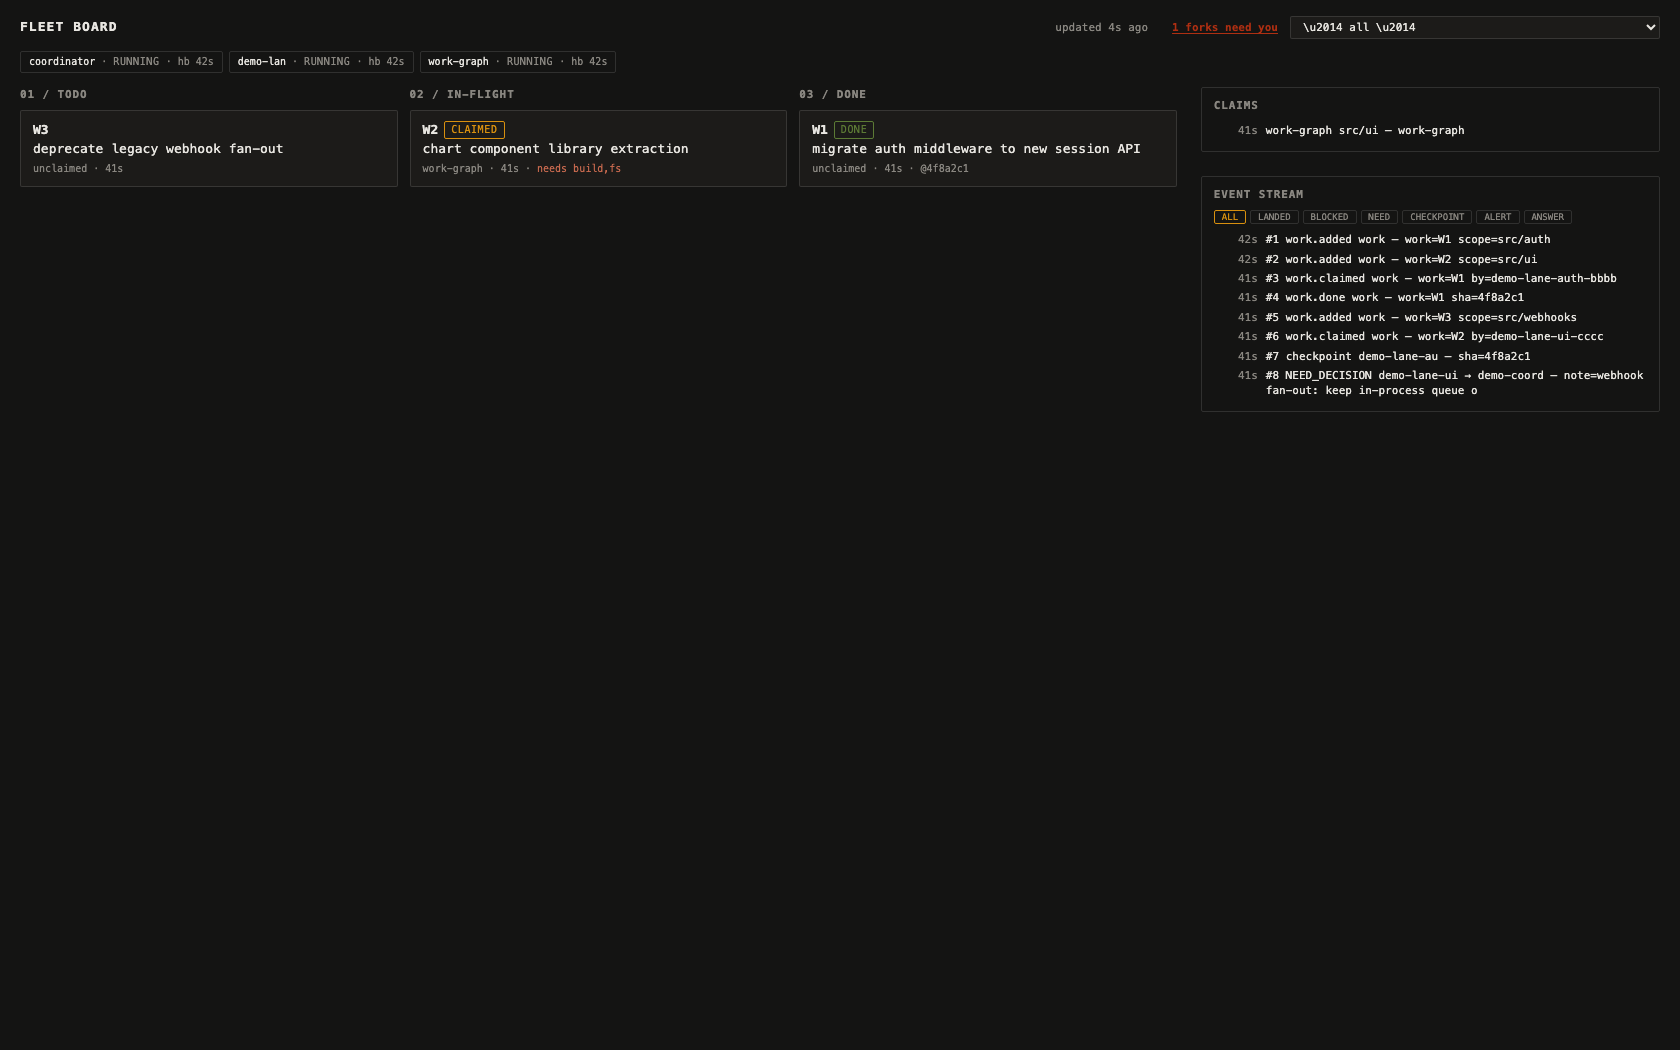
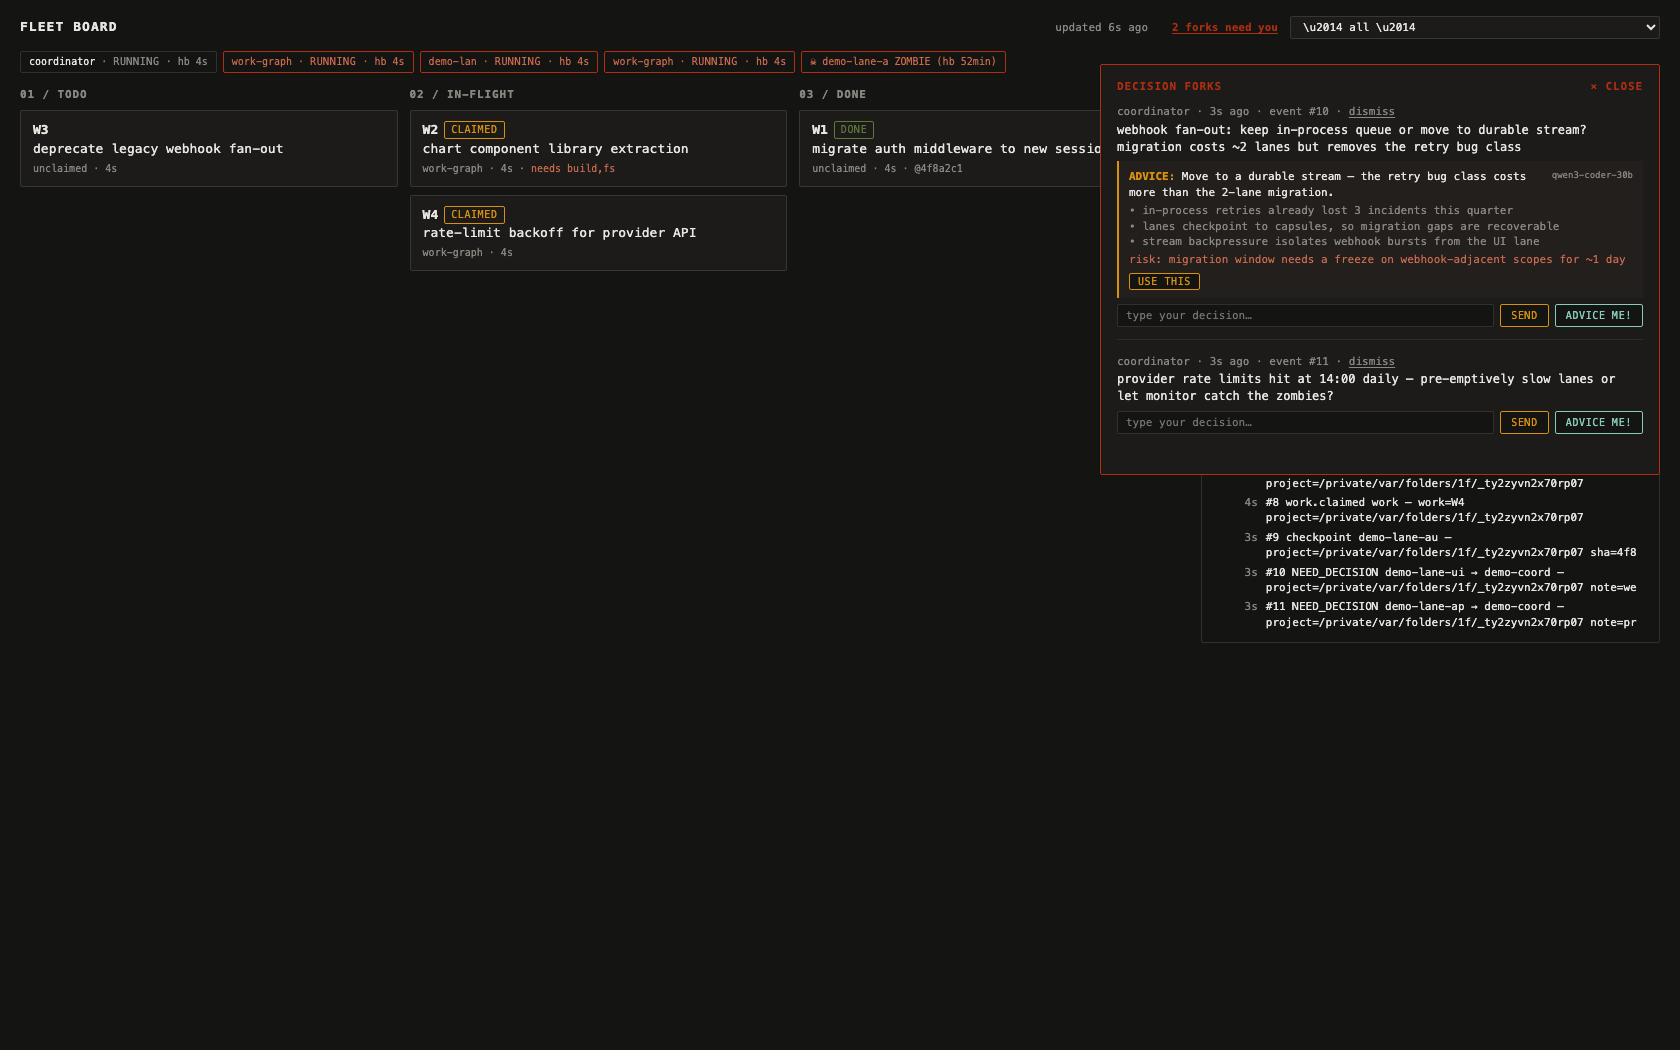
product round: mDNS (suspenders.local), mermaid comms diagram (README + pages), examples walkthrough, finalized board screenshot, Bun String.raw unicode workaround

diff --git a/pages/index.html b/pages/index.html
@@ -86,6 +86,55 @@ footer .r { margin-left:auto; }
 </section>
 
 <section>
+  <h2>Messaging, consults, and the human in the loop</h2>
+  <div class="arch">
+<pre class="mermaid">
+sequenceDiagram
+    autonumber
+    participant L as Lane (worker session)
+    participant C as Coordinator session
+    participant G as governor.db (bus + graph)
+    participant B as Fleet board (browser)
+    participant A as advise.ts (LLM worker)
+    participant H as Human operator
+
+    Note over L,G: work and checkpoints ride the bus — never prose
+    L->>G: work take W7 (CAS claim, capability-checked)
+    L->>G: emit checkpoint --sha (milestone)
+    L->>G: emit NEED_DECISION (fork raised)
+
+    G->>B: 1s poll — fork card (red, asker, age)
+    B->>H: "2 forks need you"
+
+    alt human wants machine advice
+        H->>B: click "Advice me!"
+        B->>A: POST /api/advise (spawn, detached)
+        A->>G: read claims, recent events, graph shape
+        A->>A: LLM call (OpenAI-compatible, autodiscovered)
+        A->>G: fact advice.#id + ADVICE event
+        G->>B: advice inline (rec / rationale / risk / model)
+        B->>H: "use this" fills the answer box
+    end
+
+    H->>B: edit decision, send
+    B->>G: emit ANSWER --to lane (auto-acks the fork)
+    G->>L: lane inbox sees ANSWER on next poll
+
+    Note over L,C: consults — questions, never ownership
+    L->>G: coord who-knows "retry contracts?"
+    G->>C: consult C## in expert inbox
+    C->>G: coord consult-reply C## answer
+    G->>L: answer lands in lane inbox
+
+    Note over G,H: zombies — 2 stale signals alert, never auto-reclaim
+    G->>B: zombie chip (lane frozen by usage cliff)
+    H->>G: work reclaim W4 — re-dispatch at frozen transcript
+</pre>
+  </div>
+  <p class="caption">Rendered with mermaid — the same diagram lives in the <a href="https://github.com/klh/suspenders#messaging-consults-and-the-human-in-the-loop">README</a>. The invariants: the bus is the transport, consults never move ownership, and the human is the only one who answers forks or reclaims lanes.</p>
+</section>
+
+<section>
   <h2>Architecture</h2>
   <div class="arch"><pre>bun CLIs + hook gates
   │ SessionStart → bootstrap session, caps, transcript_path
@@ -106,6 +155,9 @@ fleet board — forks · lanes · tasks · stream   ← you, deciding</pre></div
   <span class="r"><a href="https://github.com/klh/suspenders">github.com/klh/suspenders</a> · extracted from the <a href="https://github.com/klh/speedy-claude">speedy-claude</a> setup</span>
 </footer>
 
-</div>
+<script type="module">
+  import mermaid from "https://cdn.jsdelivr.net/npm/mermaid@11/dist/mermaid.esm.min.mjs";
+  mermaid.initialize({ startOnLoad: true, theme: "dark", fontFamily: "ui-monospace, Menlo, monospace" });
+</script>
 </body>
 </html>

diff --git a/hooks/bin/fleet-board.ts b/hooks/bin/fleet-board.ts
@@ -269,3 +269,16 @@ Bun.serve({
 	},
 });
 console.log(`fleet board → http://127.0.0.1:${PORT}  (governor.db, 1s poll; writes: /api/answer /api/ack /api/advise)`);
+
+// best-effort Bonjour/mDNS: while the board runs, http://suspenders.local:PORT
+// resolves from Bonjour-capable machines on the LAN. The name belongs to the
+// dns-sd/avahi child — it vanishes when the board dies (auto-renames to
+// suspenders-2.local on conflict). Skip silently when neither tool exists.
+const mdnsCmd = process.platform === "darwin" ? ["dns-sd", "-R", "suspenders", "_http._tcp", ".", String(PORT)] : ["avahi-publish", "-s", "suspenders", "_http._tcp", String(PORT)];
+try {
+	const mdns = Bun.spawn(mdnsCmd, { stdin: "ignore", stdout: "ignore", stderr: "ignore" });
+	process.on("exit", () => mdns.kill());
+	console.log(`mDNS registered → http://suspenders.local:${PORT}`);
+} catch {
+	// no mDNS tooling — loopback URL still works
+}

diff --git a/hooks/bin/fleet-board-html.ts b/hooks/bin/fleet-board-html.ts
@@ -1,6 +1,7 @@
+const unesc = (s) => s.split("\\u2014").join(String.fromCharCode(0x2014));
 // fleet-board-html.ts — the fleet board page, split from the server so the
 // HTML payload stays reviewable. Pure string; served by fleet-board.ts.
-export const HTML = String.raw`<!doctype html>
+export const HTML = unesc(String.raw`<!doctype html>
 <html><head><meta charset="utf-8"><title>FLEET BOARD</title>
 <style>
 :root { color-scheme: dark; }
@@ -271,4 +272,8 @@ function tick() {
 setInterval(tick, 1000);
 sel.addEventListener('change', tick);
 tick();
-</script></body></html>`;
+if (new URLSearchParams(location.search).get('open') === 'forks') {
+  // open immediately; the 1s render loop keeps the panel populated
+  document.getElementById('needsPanel').style.display = 'block';
+}
+</script></body></html>`);

diff --git a/examples/walkthrough.md b/examples/walkthrough.md
@@ -1,0 +1,97 @@
+# Walkthrough — one full loop of the harness
+
+Every command below is copy-pasteable. Run them from **any git repo** — the
+Work Graph partitions per project, so this creates its own lane of work
+without touching any other repo's graph. (The only shared state is the
+governor.db file itself; events carry `payload.project` so foreign traffic is
+filterable.)
+
+Open a second terminal with `bun ~/.claude/hooks/suspenders/bin/fleet-board.ts`
+and watch everything you do appear live.
+
+## 1. Bootstrap: you are the coordinator
+
+```bash
+SID="my-coordinator-0001"   # any stable string; use the full session sid in real fleets
+bun ~/.claude/hooks/suspenders/bin/coord.ts bootstrap --as "$SID" --role coordinator --caps shell,fs,git,build
+```
+
+Session registered, capabilities advertised, RULES printed. In a real fleet
+every lane bootstraps the same way with `--role worker --parent "$SID"` —
+capabilities inherit, so a lane can never be dispatched work its type can't do.
+
+## 2. Register work; take it; land it
+
+```bash
+W=~/.claude/hooks/suspenders/bin/work.ts
+bun $W add "wire the payment webhook retries" --scope src/payments --by "$SID"
+bun $W take W1 --as "$SID"        # CAS claim — a lost race is informational
+bun $W done W1 --sha "$(git rev-parse --short HEAD)"   # checkpoint + roll-up
+```
+
+Parallelizable? Split it — children are plan-gated (register the decomposition
+plan first; each child gets exclusive file regions):
+
+```bash
+bun $W split W2 "parse webhook payloads" "idempotent retry table" --reason independent-scopes --keep 1
+bun $W ready    # what the fleet can self-serve right now
+```
+
+## 3. Ask the fleet a question (consult — never ownership transfer)
+
+```bash
+C=~/.claude/hooks/suspenders/bin/coord.ts
+bun $C who-knows "retry table migrations"        # ranks live sessions by context
+bun $C consult --best "does the retry table need a backfill?" --scope src/payments --as "$SID"
+# the expert's inbox gets: ? C## from <you> — they reply:
+# bun $C consult-reply C## "no — table starts empty, backfill unnecessary" --as "<expert>"
+```
+
+## 4. Hit a fork → let the board + LLM advise → decide
+
+```bash
+bun $C emit NEED_DECISION --to "$SID" --note "retry storms: exponential backoff or token bucket? backoff is 20 lines, bucket needs a rate limiter dep" --as "$SID"
+```
+
+On the board: **DECISION FORKS** panel, red card, your question. Press
+**Advice me!** — the advise worker reads the control plane (claims, recent
+events, graph shape) and asks your configured LLM:
+
+```bash
+SUSPENDERS_LLM_URL=http://127.0.0.1:8901/v1/chat/completions \
+SUSPENDERS_LLM_MODEL=      # empty = autodiscover from /v1/models
+bun ~/.claude/hooks/suspenders/bin/advise.ts <event-id>
+```
+
+Recommendation lands inline: **rec · rationale · risk · model**. "Use this"
+fills the box; you edit; **send** — the answer rides the bus back:
+
+```bash
+bun $C emit ANSWER --to "$SID" --note "token bucket — we already own the dep transitively" --as fleet-board
+bun $C inbox --as "$SID"   # the lane sees it on next poll
+```
+
+**The LLM advises; the human decides.** Nothing the advise worker writes ever
+enters the bus as an instruction.
+
+## 5. When a lane dies mid-flight (the part that used to hurt)
+
+A lane frozen by a usage cliff stops heartbeating while its claim keeps going.
+The monitor (or launchd agent) flags it — two stale signals = ZOMBIE, one =
+SUSPECT, a lookup failure is never death:
+
+```bash
+bun ~/.claude/hooks/suspenders/bin/monitor.ts          # read-only health
+bun $W orphaned                                        # items whose owner went silent
+bun $W reclaim W4                                      # human calls this, no auto-reclaim
+```
+
+Re-dispatch pointing at the frozen transcript — its context is the salvage,
+not the loss.
+
+## 6. The one invariant
+
+Operational state lives in the graph, never in Markdown or anyone's head:
+every actionable item is a `work add`, every milestone a `work done --sha`,
+every decision a bus event. Sessions restart, contexts compact, lanes die —
+the graph doesn't care.

diff --git a/README.md b/README.md
@@ -70,6 +70,55 @@ fleet board — forks · lanes · tasks · stream   ← you, deciding
 
 Decision-fork flow: lane emits `NEED_DECISION` → board surfaces it (red card) → optional **Advice me!** spawns `advise.ts` → endpoint-agnostic LLM call (any OpenAI-compatible API; model autodiscovered from `/v1/models`) → recommendation as `advice.<event-id>` fact → human edits/accepts → `ANSWER` event back to the lane. **The LLM advises; the human decides.**
 
+### Messaging, consults, and the human in the loop
+
+```mermaid
+sequenceDiagram
+    autonumber
+    participant L as Lane (worker session)
+    participant C as Coordinator session
+    participant G as governor.db (bus + graph)
+    participant B as Fleet board (browser)
+    participant A as advise.ts (LLM worker)
+    participant H as Human operator
+
+    Note over L,G: work and checkpoints ride the bus — never prose
+    L->>G: work take W7 (CAS claim, capability-checked)
+    L->>G: emit checkpoint --sha (milestone)
+    L->>G: emit NEED_DECISION --note "queue vs stream?" (fork raised)
+
+    G->>B: 1s poll → fork card (red, asker, age)
+    B->>H: "2 forks need you"
+
+    alt human wants machine advice
+        H->>B: click "Advice me!"
+        B->>A: POST /api/advise (spawn, detached)
+        A->>G: read claims, recent events, graph shape, zombies
+        A->>A: LLM call (OpenAI-compatible, model autodiscovered)
+        A->>G: fact advice.<id> + ADVICE event
+        G->>B: advice renders inline (rec · rationale · risk · model)
+        B->>H: "use this" → fills the answer box
+    end
+
+    H->>B: edit decision, click send
+    B->>G: emit ANSWER --to <lane> --note "…" (auto-acks the fork)
+    G->>L: lane inbox sees ANSWER on next poll
+
+    Note over L,C: questions, never ownership
+    L->>G: coord who-knows "stitch contracts?" (discover expert)
+    G->>C: consult C## — "? C## from <lane>"
+    C->>G: coord consult-reply C## "<answer>"
+    G->>L: expert's answer lands in lane inbox
+
+    Note over G,H: zombies: 2 stale signals → ZOMBIE alert to the human — never auto-reclaimed
+    G->>B: zombie chip (lane frozen by usage cliff)
+    H->>G: work reclaim W7 → re-dispatch pointing at frozen transcript
+```
+
+## Examples
+
+A full worked session — bootstrap, register work, capability-gated dispatch, consult, fork with advice, human answer, zombie reclaim — lives in [examples/walkthrough.md](examples/walkthrough.md). Every command is copy-pasteable against any repo.
+
 ## Security posture
 
 - The control plane never stores credentials; secrets never enter the bus.
